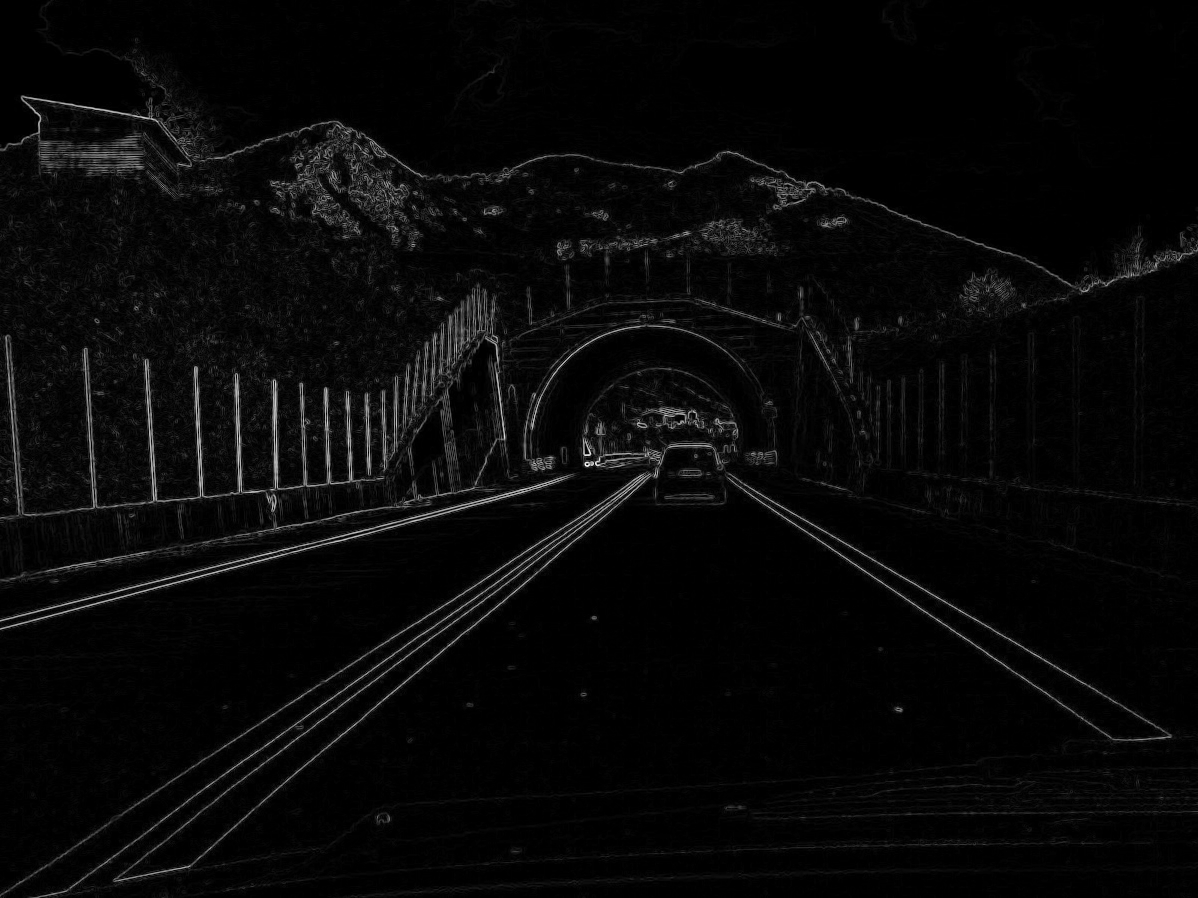
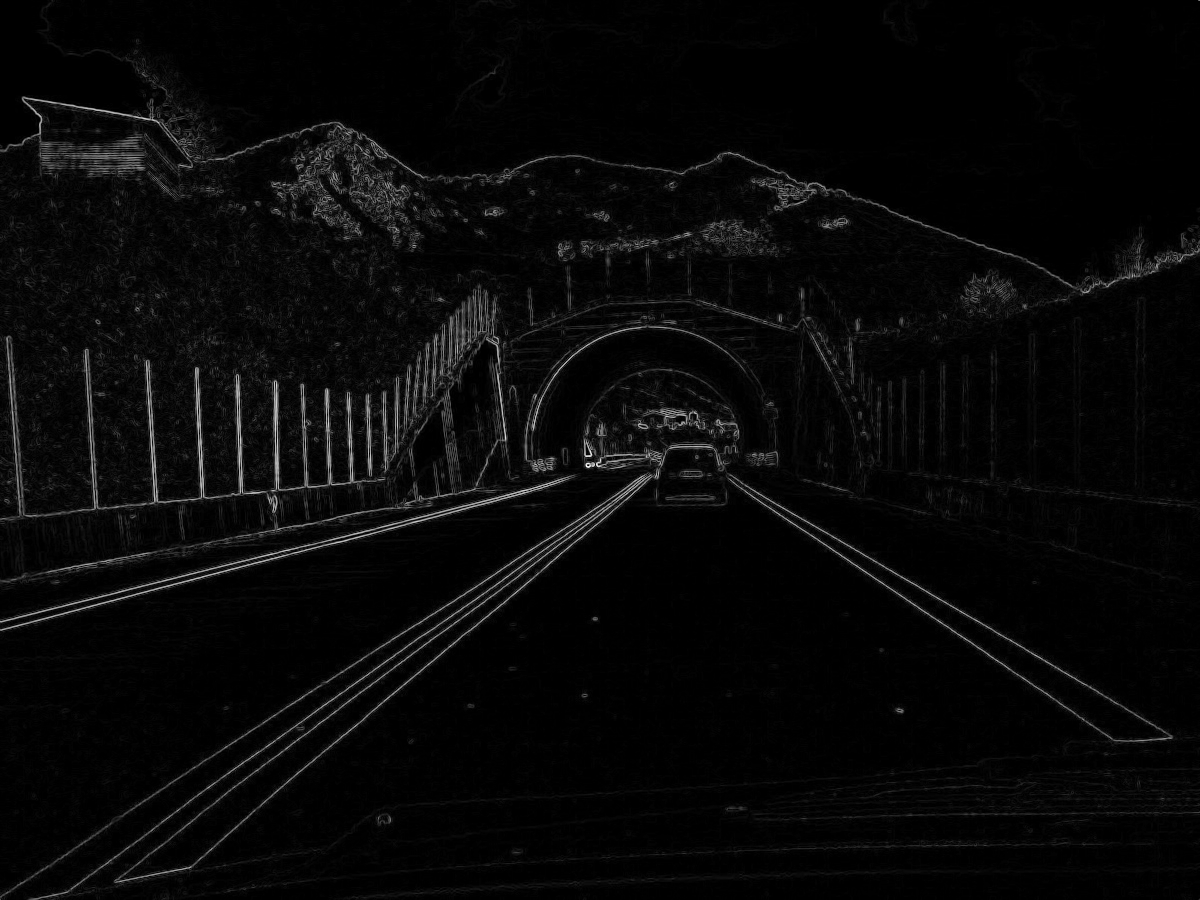
added padding

diff --git a/sobelEdge_mk864/sobel_edge_detection_with_hcl_with_padding.py b/sobelEdge_mk864/sobel_edge_detection_with_hcl_with_padding.py
@@ -1,0 +1,82 @@
+
+#import modules
+import heterocl as hcl
+from PIL import Image
+import math
+import os
+import numpy as np
+import imageio
+import time
+
+#need to initiate hcl
+hcl.init(init_dtype=hcl.Float())
+
+#specify width and height of the input image
+height = 900#225
+width = 1200#225
+
+#need to define placeholders to define kernel and create schedule
+data = hcl.placeholder((height+2, width+2, 3), "data", dtype=hcl.Float())
+Gx = hcl.placeholder((3,3), "Gx", dtype=hcl.Float())
+Gy = hcl.placeholder((3,3), "Gy", dtype=hcl.Float())
+
+#path to input image
+path = 'lane.png'#'spongebob.png'
+imagewopadding = np.asarray(imageio.imread(path))
+imagewpadding = np.zeros((height+2, width+2, 3))
+
+for x in range (0, height):
+	for y in range (0, width):
+		imagewpadding[x+1,y+1] = imagewopadding[x,y]
+
+for x in range (0, height):
+	imagewpadding[x,0] = imagewopadding[x,0]
+	imagewpadding[x, width+1] = imagewopadding[x, width-1]
+
+for y in range (0, width):
+	imagewpadding[0,y] = imagewopadding[0,y]
+	imagewpadding[height+1, y] = imagewopadding[height-1, y]
+
+
+#need to convert all input data to hcl arrays
+imgdata = hcl.asarray(imagewpadding)
+Gxdata = hcl.asarray(np.array([[1,0,-1],[2,0,-2],[1,0,-1]]))
+Gydata = hcl.asarray(np.array([[1,2,1],[0,0,0],[-1,-2,-1]]))
+
+#define kernel for all computations done in hcl
+def kernel(data, Gx, Gy):
+	newdata =  hcl.compute((height+2, width+2), lambda x,y: data[x][y][0] + data[x][y][1] + data[x][y][2], "newdata", dtype=hcl.Float()) 
+	r = hcl.reduce_axis(0,3)
+	c = hcl.reduce_axis(0,3)
+	Gxresult = hcl.compute((height, width), lambda x,y: hcl.sum(newdata[x+r, y+c]*Gx[r,c], axis=[r,c]), "Gxresult", dtype=hcl.Float())
+	t = hcl.reduce_axis(0,3)
+	g = hcl.reduce_axis(0,3)
+	Gyresult = hcl.compute((height, width), lambda x,y: hcl.sum(newdata[x+t, y+g]*Gy[t,g], axis=[t,g]), "Gyresult", dtype=hcl.Float())
+	return hcl.compute((height, width), lambda x,y: hcl.sqrt((Gxresult[x][y]*Gxresult[x][y])+(Gyresult[x][y]*Gyresult[x][y]))/4328*255, dtype=hcl.Float())
+
+#create schedule and function
+sched = hcl.create_schedule([data, Gx, Gy], kernel)
+func = hcl.build(sched)
+
+#need to define output array as an hcl array
+length = hcl.asarray(np.zeros((height, width)) ,dtype=hcl.Float())
+
+#run the function
+func(imgdata, Gxdata, Gydata, length)
+
+#change the type of output back to numpy array
+newlength = length.asnumpy().astype(int)
+
+#define array for image
+newimgarry = np.zeros((height, width, 3))
+
+#assign (length, length, length) to each pixel
+for x in range (0, height):
+	for y in range (0, width):
+		for z in range (0, 3):
+			newimgarry[x,y,z] = newlength[x,y]
+
+#create an image with the array
+imageio.imsave('lane_fixed.png', newimgarry)
+
+print(time.process_time())
